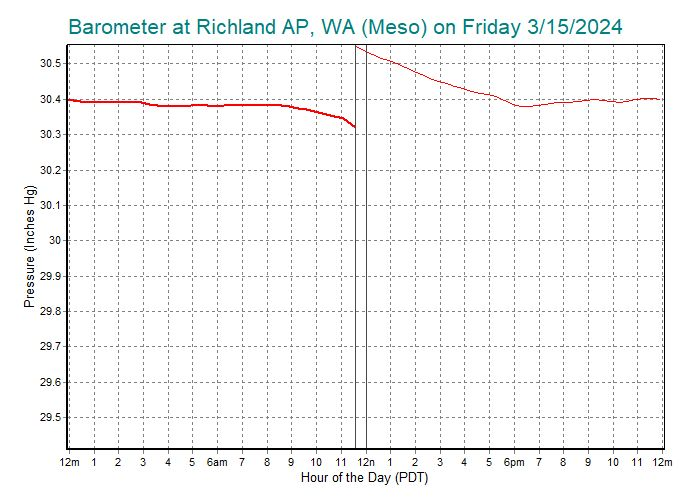
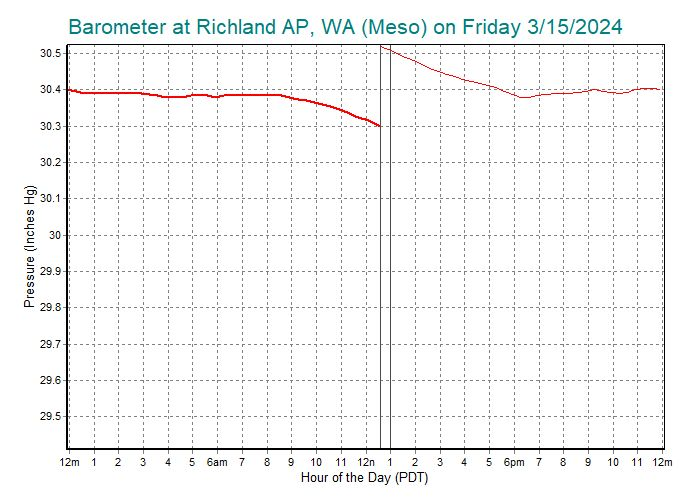
another update

diff --git a/charts.html b/charts.html
@@ -88,7 +88,7 @@
 	<p><b><font face="Arial" size="5">Samples from Rosy.asp</font></b></p>
    </div>
    <p><span>
-(24-hour charts updated Friday, March 15, 2024 at 02:00PM Central).
+(24-hour charts updated Friday, March 15, 2024 at 03:00PM Central).
    </span></p>
    <p>The orginal ASP page is named Rosy, a nickname windsurfers from the Tri-Cities gave Roosevelt, a sailing site on the east end of the Columbia River gorge.</p>
 	<p>This first pair of sample charts, wind and temperature, is updated every 

diff --git a/charts_input.html b/charts_input.html
@@ -88,7 +88,7 @@
 	<p><b><font face="Arial" size="5">Samples from Rosy.asp</font></b></p>
    </div>
    <p><span>
-(24-hour charts updated Friday, March 15, 2024 at 02:00PM Central).
+(24-hour charts updated Friday, March 15, 2024 at 03:00PM Central).
    </span></p>
    <p>The orginal ASP page is named Rosy, a nickname windsurfers from the Tri-Cities gave Roosevelt, a sailing site on the east end of the Columbia River gorge.</p>
 	<p>This first pair of sample charts, wind and temperature, is updated every 
